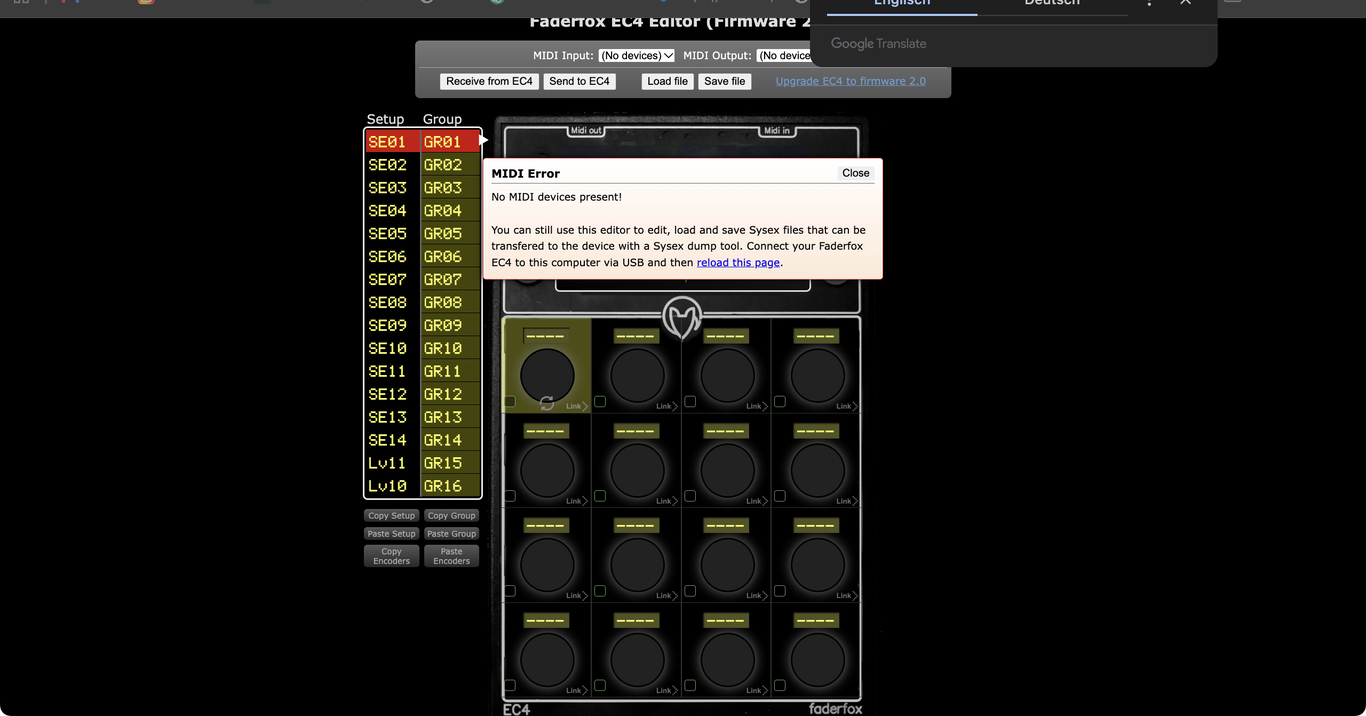
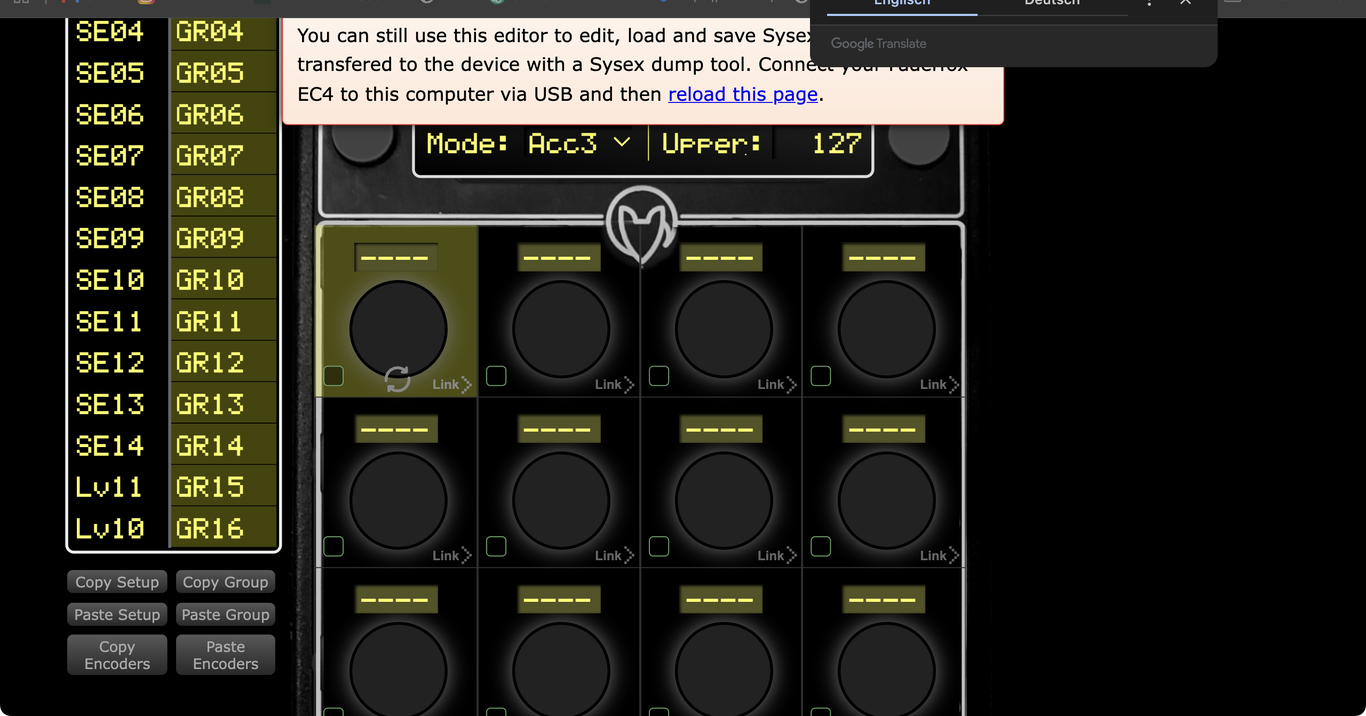
docs: README fact-check against code + fresh screenshot
- checkboxes: bottom-left (not top-left), cell not row
- drop the claim about a background process on 8321 (does not exist)
- local bridge does start a server — say it starts one for you
- note offline mode; 'co-operation with faderfox' scoped to the original

diff --git a/README.md b/README.md
@@ -4,8 +4,8 @@ This project offers browser-based editors for MIDI controllers by [faderfox.de](
 > **About this fork** — This repository is a maintained fork of the original
 > [faderfox-editor](https://github.com/privatepublic-de/faderfox-editor) by Peter Witzel. It adds
 > copy/paste and drag & drop workflows to the EC4 editor (see *New features of this fork* below)
-> and includes a native CoreMIDI bridge, so the editor can be run locally on macOS with a
-> double-click — no web server or deployment required.
+> and includes a native CoreMIDI bridge, so the editor runs locally on macOS with a simple
+> double-click — the small local server is set up and started for you.
 
 ![EC4 editor showing setups, groups and encoder settings](screenshots/editor-overview.png)
 
@@ -19,13 +19,13 @@ Editor for the [EC4 Encoder Controller](http://www.faderfox.de/ec4.html). You ca
 
 ## Local EC4 editor on macOS
 
-Connect the EC4 via USB and double-click **`Start EC4 Editor.command`**. The first start installs the local CoreMIDI bridge automatically. Keep the opened Terminal window running while using the editor; close it or press `Ctrl+C` to stop the server. If the bridge is already running (also as a background process on port 8321), the script just opens Chrome at `http://localhost:8321/ec4-v2/`.
+Connect the EC4 via USB and double-click **`Start EC4 Editor.command`**. The first start installs the local CoreMIDI bridge automatically. Keep the opened Terminal window running while using the editor; close it or press `Ctrl+C` to stop it. If a bridge is already running on port 8321, the script just opens Chrome at `http://localhost:8321/ec4-v2/`. Without a connected device the editor still starts in offline mode, so you can edit and save files.
 
-### New features of this fork (v2.0b+)
+### New features of this fork
 
 These features are additions to the original editor and only apply to the EC4 (FW 2.x):
 
-- **Copy / paste individual encoders** – check the checkbox in the top-left corner of encoder rows (green row = selected), then use **Copy Encoders** / **Paste Encoders** in the preset toolbar. In the paste dialog, click the target positions; the mapping follows your click order (each field shows its number).
+- **Copy / paste individual encoders** – tick the checkbox in the bottom-left corner of an encoder cell (the cell tints green), then use **Copy Encoders** / **Paste Encoders**. In the paste dialog, click the target positions in the order you want them filled (each position shows its paste number).
 - **Partial copy** – the Copy Encoders dialog has two checkboxes, *Encoder (knob) settings* and *Push button settings* (both checked by default), so you can copy only the rotary or only the push-button part of an encoder.
 - **Drag & drop encoder swap** – drag the knob disc of an encoder onto another encoder row of the same group to exchange both encoders completely (all settings, name and push-button settings).
 - **Drag & drop group swap** – in the setup/group list on the left, drag a whole group row onto another group of the same setup to exchange both groups (name + all 16 encoders).
@@ -40,7 +40,7 @@ All swaps ask for confirmation before changing anything. After editing, use **Se
 Editor for the [PC4 Pot Controller](http://faderfox.de/pc4.html). You can find a ready-to-use version under [https://www.privatepublic.de/faderfox-editor/pc4](https://www.privatepublic.de/faderfox-editor/pc4).
 
 
-This software was developed in co-operation with faderfox.
+This software was developed in co-operation with faderfox — this applies to the original editor, not to the fork additions in this repository.
 
 ## License
 
